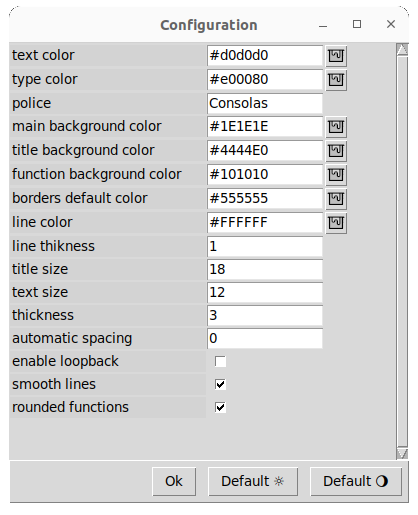
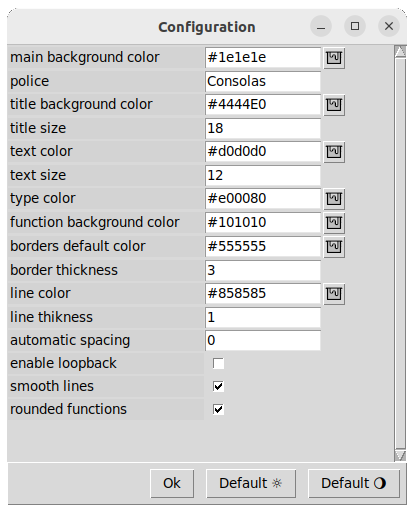
**ReadMe & window_configuration :** + Remettre en ordre les attributs par sections (bordures) et renommer les attributs moins explicites

Changed region(s): [[0.0, 0.0311, 1.0, 0.9942]]

diff --git a/GUI.py b/GUI.py
@@ -344,7 +344,7 @@ class Window:
         title_size = int(self.preferences["title size_int"])
         text_size = int(self.preferences["text size_int"])
         text_color = self.preferences["text color_color"]
-        thickness = int(self.preferences["thickness_int"])
+        thickness = int(self.preferences["border thickness_int"])
         font_titre = tkfont.Font(family=police, size=title_size, weight="bold")
         font_texte = tkfont.Font(family=police, size=text_size, weight="normal")
         border_color = self.preferences["borders default color_color"]

diff --git a/readme/settings_fr.md b/readme/settings_fr.md
@@ -10,18 +10,18 @@ Cette fenêtre permet de configurer le graphisme et le fonctionnement du program
   </div>
     <div style="display:table-cell; vertical-align:top;">
     <ul>
-      <li><b>text color :</b> Couleur des noms de fonctions et des noeuds</li>
-      <li><b>type color :</b> Couleur des annotations de types</li>
-      <li><b>police :</b> Police d'écriture générale</li>
       <li><b>main background color :</b>  Couleur de fond de la fenêtre principale</li>
+      <li><b>police :</b> Police d'écriture générale</li>
       <li><b>title background color :</b> Couleur de fond des noms de fonctions par défaut.<br>Peux être paramétrée localement pour chaque fonction</li>
+      <li><b>title size :</b> Taille des noms de fonctions</li>
+      <li><b>text color :</b> Couleur des noms de fonctions et des noeuds</li>
+      <li><b>text size :</b> Taille des autres écritures (Noms des noeuds et types)</li>
+      <li><b>type color :</b> Couleur des annotations de types</li>
       <li><b>function background color :</b> Couleur de fond de la partie inférieur du bloc de fonction</li>
       <li><b>borders default color :</b> Couleur par défaut des bords des fonctions</li>
+      <li><b>border thickness :</b> Epaisseur des bordures de fonctions</li>
       <li><b>line color :</b> Couleur des liens entre noeuds</li>
       <li><b>line thikness :</b> Epaisseur des liens</li>
-      <li><b>title size :</b> Taille des noms de fonctions</li>
-      <li><b>text size :</b> Taille des autres écritures (Noms des noeuds et types)</li>
-      <li><b>thickness :</b> Epaisseur des bordures de fonctions</li>
       <li><b>automatic spacing :</b> Ecartement entre chaque fonction lors d'un placement automatique.<br>Par défaut à 0, règle l'espacement maximum pour remplir la fenêtre</li>
       <li><b>enable loopback :</b> Désactivé par défaut, interdit la possibilité de faire reboucler une sortie sir ces antécédents.<br>Si c'est activé, le placement automatique est inhibé.</li>
       <li><b>smooth lines :</b> Liens uniquement horizontaux et verticaux si désactivé, sinon liens courbes</li>

diff --git a/readme/settings.md b/readme/settings.md
@@ -10,18 +10,18 @@ This window is used to configure the graphics and operation of the program.
   </div>
     <div style="display:table-cell; vertical-align:top;">
     <ul>
-      <li><b>text color:</b> Colour of function names and nodes</li>
-      <li><b>type color:</b> Type hint colour</li>
-      <li><b>police:</b> general typeface</li>
       <li><b>main background color:</b> Main window background color/li>
+      <li><b>police:</b> general typeface</li>
       <li><b>title background color:</b> DDefault function name background color.<br>Can be set locally for each function</li>
+      <li><b>title size:</b> Size of the function names</li>
+      <li><b>text color:</b> Colour of function names and nodes</li>
+      <li><b>text size:</b> Size of the other elements (Node names and type hints)</li>
+      <li><b>type color:</b> Type hint colour</li>
       <li><b>function background color:</b> Background color of the lower part of the function block</li>
       <li><b>borders default color:</b> Default feature border color</li>
+      <li><b>border thickness:</b> Function borders thikness</li>
       <li><b>line color:</b> Color of the links between nodes</li>
       <li><b>line thikness:</b> Thikness of the links</li>
-      <li><b>title size:</b> Size of the function names</li>
-      <li><b>text size:</b> Size of the other elements (Node names and type hints)</li>
-      <li><b>thickness:</b> Function borders thikness</li>
       <li><b>automatic spacing:</b> Spacing between each function during automatic placement.<br>Default to 0, sets the maximum spacing to fill the window</li>
       <li><b>enable loopback:</b> Disabled by default, prohibits the possibility of looping an output on these antecedents.<br>If enabled, automatic placement is inhibited.</li>
       <li><b>smooth lines:</b>Only horizontal and vertical links if disabled, otherwise curved links</li>

diff --git a/TODO.md b/TODO.md
@@ -1,10 +1,8 @@
 # DONE:
-
-
-# TODO:
 **ReadMe & window_configuration :**
 + Remettre en ordre les attributs par sections (bordures) et renommer les attributs moins explicites
 
+# TODO:
 **GUI.py :** 
 + texte alignement : Proposer de justifier le nom des noeuds libres
 + dessiner des rectangles en pointillés 
